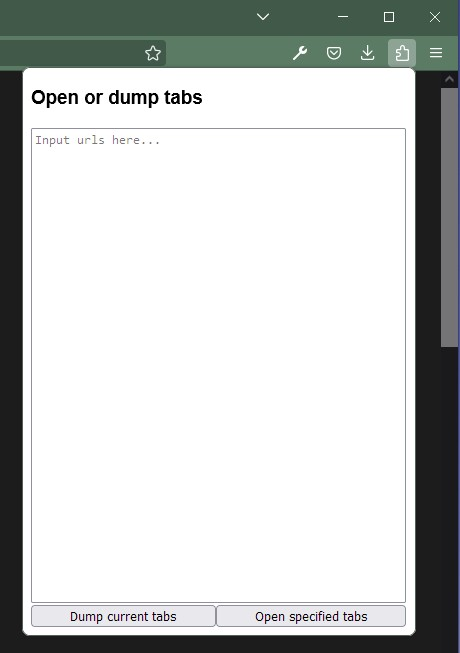
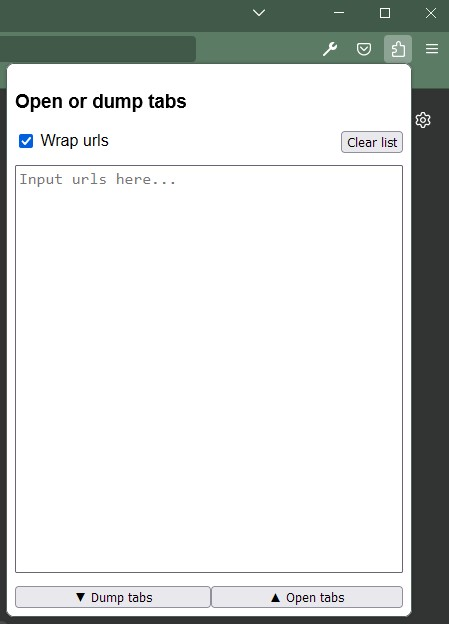
details update upon 1.1 release

Changed region(s): [[0.0, 0.0, 1.0, 1.0], [0.2494, 0.274, 0.343, 0.3045]]

diff --git a/README.md b/README.md
@@ -1,11 +1,14 @@
 # ![logo](src/icons/icon-48.png) Tab dump extension
 
-Simple yet powerful browser extension for Firefox that let user dump to and open tabs from text format.
+Simple yet powerful browser extension for Firefox that let user dump and open tabs from text.
 Extension can be used in many different user scenarios thanks to universal text format.
 
 ## Overview
 
-Extension implements a simple GUI where the user can either enter or retrieve list of tabs. The GUI consist of two buttons; Dump-button and Open-button and one text area where data is either returned or entered. Clicking on "Dump current tabs" button in GUI will return list of tabs in current window to text area. Clicking on "Open specified tabs" in GUI will open each entered URL in text area as a separate tab.
+Extension implements a simple GUI where the user can either enter or retrieve list of tabs. The GUI consist of two buttons; Dump-button and Open-button and one text area where data is either returned or entered. Clicking on "Dump tabs" button in GUI will return list of tabs in current window to text area. Clicking on "Open tabs" in GUI will open each entered URL in text area as a separate tab.
+
+Additionally there is possibility to toggle between wrap/no wrap for links in the list. This may become useful when displaying one link per line is needed.
+There is also possibility to clear list for easier usage.
 
 ![screenshot of extension's Gui](assets/screenshot-1.jpg)
 
